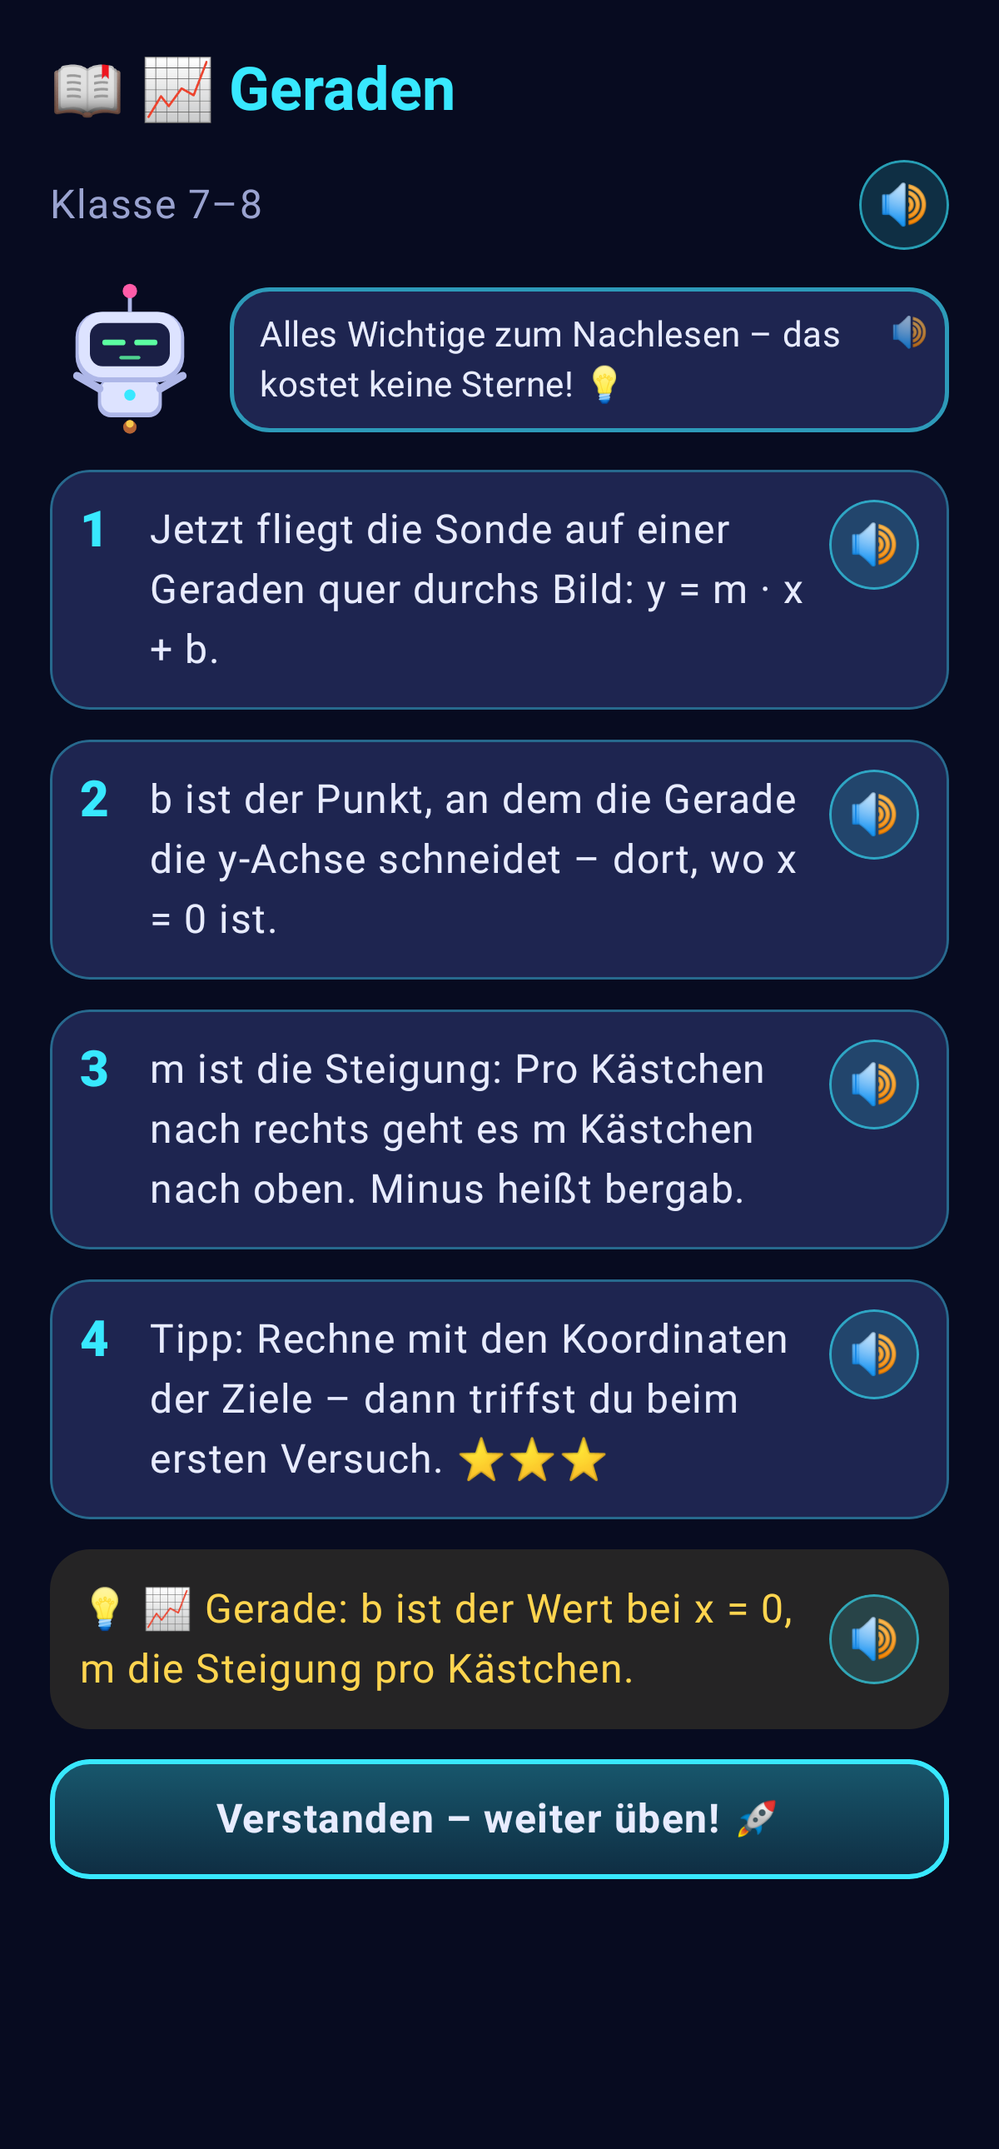
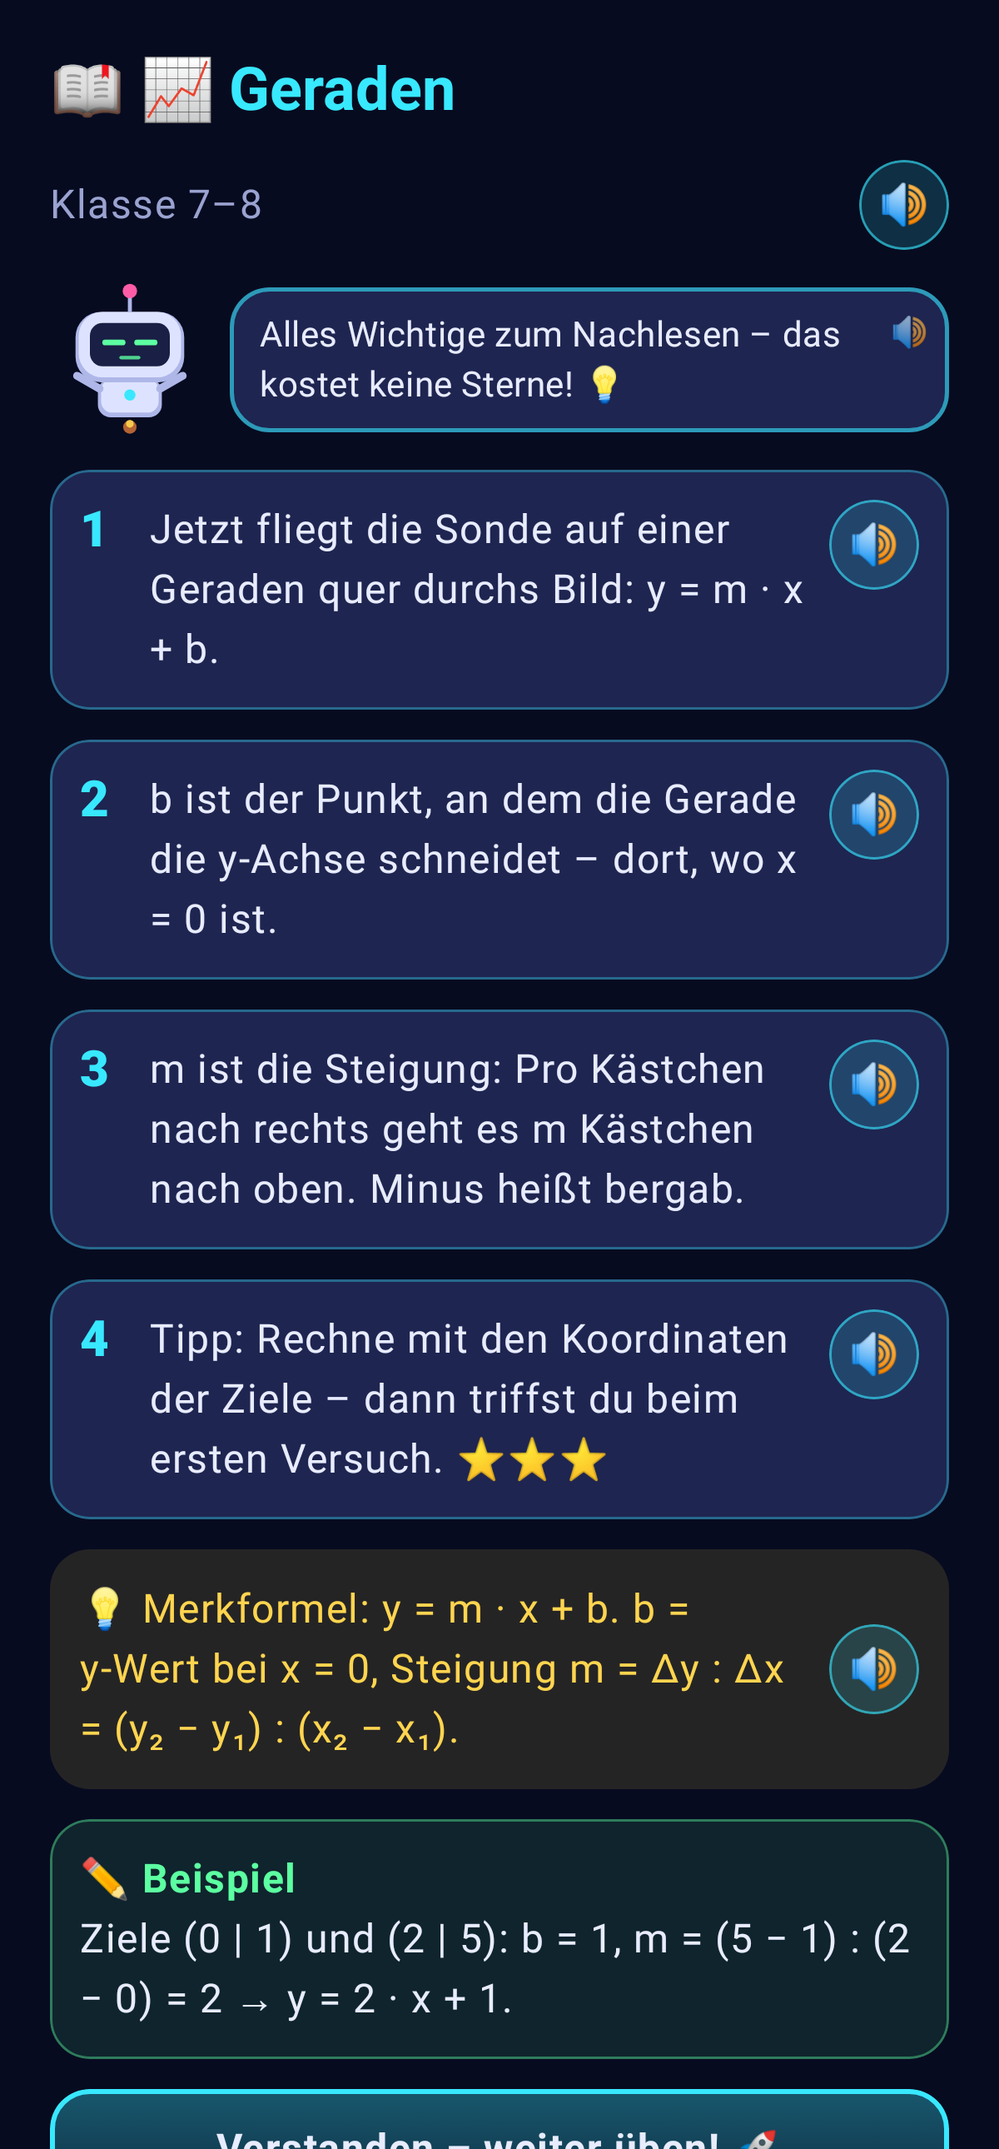
Kurvenflug 2.5.23: Theorie mit passender Merkformel und Rechenbeispiel je Kapitel, falsche Formeln korrigiert, Prüftest
Claude-Session: https://claude.ai/code/session_015vg1TniCB6sLGd2dNSJdge

Changed region(s): [[0.0308, 0.7132, 0.9558, 1.0]]

diff --git a/kurvenflug/core/model/src/commonMain/kotlin/de/kurvenflug/core/model/Theory.kt b/kurvenflug/core/model/src/commonMain/kotlin/de/kurvenflug/core/model/Theory.kt
@@ -3,16 +3,102 @@ package de.kurvenflug.core.model
 /**
  * „📖 Theorie“-Knopf in jeder Übung: die passende Erklärung zum Nachlesen, jederzeit und ohne Sterne-Abzug.
  * Kapitel-Level zeigen die Einführung ihres Kapitels; Missionen ohne eigenes Kapitel (Sturm, Duell, Andromeda …)
- * die Einführung des Kapitels mit derselben Bahnart. Dazu die Merkformel der Bahnart.
+ * die Einführung des Kapitels mit derselben Bahnart. Dazu die Merkformel (genau die, die man zum Lösen braucht)
+ * und ein durchgerechnetes Beispiel (Marcel 18.11.: „die Formel, die man braucht, erklären und zeigen“).
  */
-data class Theory(val emoji: String, val title: String, val grades: String, val points: List<String>, val formula: String?)
+data class Theory(val emoji: String, val title: String, val grades: String, val points: List<String>, val formula: String?, val example: String? = null)
 
 object Theories {
     fun of(level: Level, chapter: Chapter?): Theory? {
         val own = chapter?.takeIf { it.intro.isNotEmpty() && it.levels.any { l -> l.kind == level.kind } }
             ?: Levels.chapters.firstOrNull { it.number == level.chapter && it.intro.isNotEmpty() }
         val c = own ?: Levels.chapters.firstOrNull { c -> c.intro.isNotEmpty() && c.levels.any { it.kind == level.kind } } ?: return null
-        val formula = Templates.tip(level.kind).takeIf { it.isNotBlank() }?.let { "${Templates.label(level.kind)}: $it" }
-        return Theory(c.emoji, c.title, c.grades, c.intro, formula)
+        val formula = TheoryFormulas.formula(c.number, level.kind)
+            ?: Templates.tip(level.kind).takeIf { it.isNotBlank() }?.let { "${Templates.label(level.kind)}: $it" }
+        return Theory(c.emoji, c.title, c.grades, c.intro, formula, TheoryFormulas.example(c.number, level.kind))
     }
+}
+
+/**
+ * Merkformel und Rechenbeispiel je Kapitel (bei Kapiteln mit zwei Aufgabenarten je Bahnart).
+ * Geprüft am 18.11.: Jede Größe, die man einstellt, steht in der Formel; das Beispiel rechnet genau so, wie die Level es verlangen.
+ */
+object TheoryFormulas {
+    private class Entry(val formula: String, val example: String)
+    private fun e(f: String, x: String) = Entry(f, x)
+
+    private val byChapter: Map<Int, Map<Kind?, Entry>> = mapOf(
+        1 to mapOf(null to e("Punkt (x | y): erst x waagerecht (rechts +, links −), dann y senkrecht (oben +, unten −).",
+            "Ziel 3 Kästchen rechts und 2 unten → (3 | −2), also x = 3 und y = −2.")),
+        2 to mapOf(null to e("y = m · x + b. b = y-Wert bei x = 0, Steigung m = Δy : Δx = (y₂ − y₁) : (x₂ − x₁).",
+            "Ziele (0 | 1) und (2 | 5): b = 1, m = (5 − 1) : (2 − 0) = 2 → y = 2 · x + 1.")),
+        3 to mapOf(null to e("y = a · (x − d)² + e. Scheitel S(d | e); a > 0 Tal, a < 0 Hügel.",
+            "Scheitel (2 | −1), Ziel (3 | 1): 1 = a · (3 − 2)² − 1 → 1 = a − 1 → a = 2.")),
+        4 to mapOf(null to e("Wurfweite auf ebenem Boden: w = v² · sin(2α) : g (g: Erde 9,81, Mars 3,71, Mond 1,62 m/s²).",
+            "v = 10 m/s, α = 45°, Erde: w = 10² · sin(90°) : 9,81 = 100 : 9,81 ≈ 10,2 m.")),
+        5 to mapOf(
+            Kind.SINE to e("y = a · sin(b · x) + d. a = Ausschlag, eine Schwingung ist 2π : b lang, d = Mittellinie.",
+                "y = 2 · sin(x) + 1 schwingt zwischen 1 − 2 = −1 und 1 + 2 = 3; eine Schwingung ist 2π ≈ 6,28 lang."),
+            Kind.EXP to e("y = a · bˣ. a = Wert bei x = 0, b = Faktor pro Schritt (b > 1 wächst, b < 1 zerfällt).",
+                "a = 3, b = 2: bei x = 2 ist y = 3 · 2² = 3 · 4 = 12.")),
+        6 to mapOf(null to e("Gravitation: F = G · m · M : r². Doppelte Masse → doppelte Kraft, doppelter Abstand → ¼ der Kraft.",
+            "Fliegst du nur halb so weit entfernt vorbei, zieht der Planet 2² = 4-mal so stark – die Bahn knickt viel stärker.")),
+        7 to mapOf(null to e("Treffpunkt: beide Gleichungen gleichsetzen (y_A = y_B), nach x auflösen, x einsetzen → y.",
+            "A: y = x + 1, B: y = −x + 5 → x + 1 = −x + 5 → 2x = 4 → x = 2, y = 2 + 1 = 3 → Treffpunkt (2 | 3).")),
+        8 to mapOf(
+            Kind.PROP to e("Proportional: y = k · x mit k = y : x (Quotient bleibt gleich).", "Ziel (4 | 6): k = 6 : 4 = 1,5 → y = 1,5 · x."),
+            Kind.ANTI to e("Antiproportional: y = k : x mit k = x · y (Produkt bleibt gleich).", "Ziel (2 | 6): k = 2 · 6 = 12 → y = 12 : x, bei x = 4 also y = 3.")),
+        9 to mapOf(null to e("Abstand: r = √(Δx² + Δy²) (Satz des Pythagoras).", "3 rechts, 4 hoch: r = √(3² + 4²) = √(9 + 16) = √25 = 5.")),
+        10 to mapOf(null to e("y = log_b(x) + d. log_b(x) = n heißt bⁿ = x; bei x = 1 ist y = d.",
+            "Ziel (8 | 3), d = 0: log_b(8) = 3 → b³ = 8 → b = 2.")),
+        11 to mapOf(null to e("Reflexion: Einfallswinkel = Ausfallswinkel.",
+            "Trifft der Strahl unter 30° auf einen waagerechten Spiegel, prallt er unter 30° wieder ab – wie ein Ball an der Bande.")),
+        12 to mapOf(null to e("Energieerhaltung m · g · h = ½ · m · v²; Weite ab der Kante: s = 2 · √((h − h₀) · h₀).",
+            "Kante h₀ = 2, Ziel s = 8: 8 = 2 · √((h − 2) · 2) → 16 = (h − 2) · 2 → h − 2 = 8 → h = 10.")),
+        13 to mapOf(null to e("s = v · t + s₀. s₀ = Startpunkt, Geschwindigkeit v = Δs : Δt.",
+            "Start bei s₀ = 2 m, nach 4 s bei 10 m: v = (10 − 2) : 4 = 2 m/s.")),
+        14 to mapOf(
+            Kind.LASER to e("tan α = Gegenkathete : Ankathete (Höhe : Weite) → α = tan⁻¹(Höhe : Weite).",
+                "Station 4 weiter und 3 höher: tan α = 3 : 4 = 0,75 → α = tan⁻¹(0,75) ≈ 36,9°."),
+            Kind.RADIUS to e("sin α = Gegenkathete : Hypotenuse, cos α = Ankathete : Hypotenuse → r = GK : sin α = AK : cos α.",
+                "Station 3 hoch unter 30°: r = 3 : sin(30°) = 3 : 0,5 = 6.")),
+        15 to mapOf(null to e("Bruch = Zähler : Nenner. ½ = 0,5, ¼ = 0,25, ¾ = 0,75; minus heißt links.",
+            "−1¼: ein ganzes Kästchen und ein Viertel nach links → x = −1,25.")),
+        16 to mapOf(null to e("Winkelsumme im Dreieck: α + β + γ = 180°. Nebenwinkel: α + β = 180°. Rechter Winkel = 90°.",
+            "Dreieck mit 60° und 70°: γ = 180° − 60° − 70° = 50°. Nebenwinkel von 50°: 180° − 50° = 130°.")),
+        17 to mapOf(null to e("Brechungsgesetz: sin α₁ = n · sin α₂ (Winkel zum Lot gemessen; Glas n ≈ 1,5, Wasser n ≈ 1,33).",
+            "Innen im Glas 20° zum Lot: sin α₁ = 1,5 · sin(20°) ≈ 1,5 · 0,342 = 0,513 → α₁ ≈ 30,9° draußen.")),
+        18 to mapOf(null to e("pq-Formel: x = −p/2 ± √((p/2)² − q). Scheitel-x: d = (x₁ + x₂) : 2 = −p/2, e = q − d².",
+            "y = x² − 6x + 5: p = −6, q = 5 → x = 3 ± √(9 − 5) = 3 ± 2 → Nullstellen 1 und 5, Scheitel (3 | 5 − 9) = (3 | −4).")),
+        19 to mapOf(null to e("Tangentensteigung m = f'(x₀). Ableiten: xⁿ → n · xⁿ⁻¹, Zahlen fallen weg.",
+            "f(x) = x², x₀ = 3: f'(x) = 2x → m = f'(3) = 6.")),
+        20 to mapOf(null to e("Extremstelle: f'(x) = 0. f''(x) < 0 → Hochpunkt, f''(x) > 0 → Tiefpunkt.",
+            "f(x) = x² − 4x: f'(x) = 2x − 4 = 0 → x = 2; f''(x) = 2 > 0 → Tiefpunkt bei x = 2.")),
+        21 to mapOf(null to e("Fläche: ∫₀ᵇ f(x) dx = F(b) − F(0). Stammfunktion: xⁿ → xⁿ⁺¹ : (n + 1), k → k · x.",
+            "f(x) = 2x bis b = 3: F(x) = x² → F(3) − F(0) = 9 − 0 = 9.")),
+        22 to mapOf(null to e("X = P + t · v, also v = (Q − P) : t für jede Koordinate einzeln.",
+            "P(1 | 2), Q(7 | 5), t = 3: v₁ = (7 − 1) : 3 = 2, v₂ = (5 − 2) : 3 = 1 → v = (2 | 1).")),
+        23 to mapOf(null to e("y = a · bˣ mit b = 1 + p : 100 (Wachstum) bzw. b = 1 − p : 100 (Abnahme); a = Startwert.",
+            "100 € mit 5 % Zinsen: b = 1,05; nach 2 Jahren y = 100 · 1,05² = 110,25 €.")),
+        24 to mapOf(null to e("s = ½ · a · t² + v₀ · t. a = Beschleunigung (negativ = bremsen), v₀ = Anfangstempo.",
+            "a = 2 m/s², v₀ = 1 m/s, nach 3 s: s = ½ · 2 · 3² + 1 · 3 = 9 + 3 = 12 m.")),
+        25 to mapOf(null to e("y = a · xⁿ + d. n = Hochzahl, a streckt, d schiebt nach oben/unten.",
+            "y = 0,5 · x³ + 1 bei x = 2: 0,5 · 2³ + 1 = 0,5 · 8 + 1 = 5.")),
+        26 to mapOf(null to e("y = a · sin(b · (x − c)) + d. c = Verschiebung nach rechts, Wellenberg π : (2b) nach dem Nulldurchgang.",
+            "Aufsteigender Nulldurchgang bei x = 1 → c = 1; mit b = 1 liegt der Wellenberg bei 1 + π/2 ≈ 2,57.")),
+        27 to mapOf(null to e("Fallzeit t = √(2 · h : g), Weite x = v · t → v = x : t.",
+            "h = 19,62 m auf der Erde: t = √(2 · 19,62 : 9,81) = √4 = 2 s; Ziel 30 m weit → v = 30 : 2 = 15 m/s.")),
+        28 to mapOf(null to e("y = a · e^(k·x). a = Startwert; aus e^(k·x) = q folgt k = ln(q) : x.",
+            "Verdopplung nach x = 5: e^(5k) = 2 → k = ln(2) : 5 ≈ 0,693 : 5 ≈ 0,139.")),
+        29 to mapOf(null to e("Kästchen = echte Länge : Maßstab. Osten/Norden plus, Westen/Süden minus.",
+            "1 Kästchen = 50 km, Ziel 150 km östlich und 100 km südlich: x = 150 : 50 = 3, y = −(100 : 50) = −2.")),
+        30 to mapOf(null to e("P(X = k) = (n über k) · pᵏ · (1 − p)ⁿ⁻ᵏ; kumuliert P(X ≤ k) = Summe von P(X = 0) bis P(X = k).",
+            "n = 4, p = 0,5: P(X = 2) = 6 · 0,5² · 0,5² = 6 : 16 = 0,375 – also 37,5 %.")),
+    )
+
+    private fun entry(chapter: Int, kind: Kind) = byChapter[chapter]?.let { it[kind] ?: it[null] }
+    fun formula(chapter: Int, kind: Kind): String? = entry(chapter, kind)?.let { "Merkformel: ${it.formula}" }
+    fun example(chapter: Int, kind: Kind): String? = entry(chapter, kind)?.example
+    /** Für den Test: Kapitel mit Formel */
+    val chapters: Set<Int> get() = byChapter.keys
 }

diff --git a/kurvenflug/core/model/src/jvmTest/kotlin/de/kurvenflug/core/model/TheoryFormulaTest.kt b/kurvenflug/core/model/src/jvmTest/kotlin/de/kurvenflug/core/model/TheoryFormulaTest.kt
@@ -1,0 +1,49 @@
+package de.kurvenflug.core.model
+
+import org.junit.Assert.assertTrue
+import org.junit.Test
+
+/** Theorie-Prüfung (Marcel 18.11.): Jedes Level zeigt die Formel, die man braucht, mit Beispiel – und keine fremde. */
+class TheoryFormulaTest {
+    private val levels = Levels.all + Levels.chapters.mapNotNull { ChapterExtreme.forChapter(it.number) }
+
+    @Test fun everyLevelHasFormulaAndExample() {
+        levels.forEach { l ->
+            val t = Theories.of(l, Levels.chapters.firstOrNull { it.number == l.chapter })
+            assertTrue("${l.id}: keine Theorie", t != null)
+            assertTrue("${l.id}: keine Merkformel", !t!!.formula.isNullOrBlank())
+            assertTrue("${l.id}: kein Beispiel", !t.example.isNullOrBlank())
+        }
+        Levels.chapters.forEach { c -> assertTrue("Kapitel ${c.number} ohne eigene Merkformel", c.number in TheoryFormulas.chapters) }
+    }
+
+    @Test fun missionsOutsideChaptersToo() {
+        val missions = ReadTexts.fixedLevels() + (0..60).map { Daily.forDay(20_400L + it) } +
+            Gen.kinds.flatMap { k -> (0..Tier.MAX).map { t -> Gen.level(k, 977L + t, t) } }
+        val missing = missions.filter { l -> Theories.of(l, Levels.chapters.firstOrNull { it.number == l.chapter })?.example.isNullOrBlank() }
+        assertTrue("ohne Theorie/Beispiel: " + missing.map { it.id + " " + it.kind }.distinct().take(20), missing.isEmpty())
+    }
+
+    @Test fun everyAdjustableValueIsInTheFormula() {
+        // Reglernamen → wie sie in der Formel heißen
+        val names = mapOf("angle" to "α", "s0" to "s₀", "v0" to "v₀", "v1" to "v", "v2" to "v", "A" to "F(b)")
+        levels.filter { it.chapter in TheoryFormulas.chapters }.forEach { l ->
+            val f = Theories.of(l, Levels.chapters.first { it.number == l.chapter })!!.formula!!
+            l.params.forEach { p ->
+                val n = names[p.key] ?: p.key
+                assertTrue("${l.id}: Regler ${p.key} fehlt in „$f“", n in f || l.kind in setOf(Kind.POINT, Kind.RENDEZVOUS, Kind.ORBIT, Kind.LASER, Kind.PEAK))
+            }
+        }
+    }
+
+    @Test fun noForeignFormula() {
+        // Winkel, Lichtbrechung, Trigonometrie dürfen nicht das Reflexionsgesetz zeigen; waagerechter Wurf nicht die Schrägwurf-Weite
+        levels.filter { it.chapter in setOf(14, 16, 17) }.forEach { l ->
+            val f = Theories.of(l, Levels.chapters.first { it.number == l.chapter })!!.formula!!
+            assertTrue("${l.id}: Reflexionsgesetz statt passender Formel", "Einfallswinkel = Ausfallswinkel" !in f)
+        }
+        levels.filter { it.chapter == 27 }.forEach { l -> assertTrue("sin(2α)" !in Theories.of(l, Levels.chapters.first { it.number == 27 })!!.formula!!) }
+        levels.filter { it.chapter == 28 }.forEach { l -> assertTrue("e^(k·x)" in Theories.of(l, Levels.chapters.first { it.number == 28 })!!.formula!!) }
+        levels.filter { it.kind == Kind.EXP }.forEach { l -> assertTrue("bˣ" in Theories.of(l, Levels.chapters.firstOrNull { it.number == l.chapter })!!.formula!!) }
+    }
+}

diff --git a/kurvenflug/shared/src/commonMain/kotlin/de/kurvenflug/app/ui/flight/LevelScreen.kt b/kurvenflug/shared/src/commonMain/kotlin/de/kurvenflug/app/ui/flight/LevelScreen.kt
@@ -632,6 +632,14 @@ fun TheoryOverlay(t: de.kurvenflug.core.model.Theory, onClose: () -> Unit) {
                     de.kurvenflug.app.ui.fx.SpeakButton({ f }, Modifier.padding(start = 6.dp))
                 }
             }
+            // Durchgerechnetes Beispiel – genau so rechnen die Level
+            t.example?.let { x ->
+                Column(Modifier.fillMaxWidth().clip(RoundedCornerShape(16.dp)).background(Q.Green.copy(alpha = 0.10f))
+                    .border(1.dp, Q.Green.copy(alpha = 0.4f), RoundedCornerShape(16.dp)).padding(12.dp)) {
+                    Text("✏ Beispiel", color = Q.Green, fontWeight = FontWeight.Bold)
+                    Text(x, color = Q.Text)
+                }
+            }
             NeonButton(onClick = onClose, color = Q.Cyan, modifier = Modifier.fillMaxWidth()) {
                 Text("Verstanden – weiter üben! 🚀", color = Q.Text, fontWeight = FontWeight.Bold)
             }

diff --git a/kurvenflug/core/model/src/commonMain/kotlin/de/kurvenflug/core/model/ReadTexts.kt b/kurvenflug/core/model/src/commonMain/kotlin/de/kurvenflug/core/model/ReadTexts.kt
@@ -28,7 +28,7 @@ object ReadTexts {
     }
 
     /** Theorie am Stück */
-    fun theoryAll(t: Theory) = (listOf(t.title) + t.points + listOfNotNull(t.formula)).joinToString(" ") { it.trimEnd().let { p -> if (p.last() in ".!?:") p else "$p." } }
+    fun theoryAll(t: Theory) = (listOf(t.title) + t.points + listOfNotNull(t.formula, t.example?.let { "Beispiel: $it" })).joinToString(" ") { it.trimEnd().let { p -> if (p.last() in ".!?:") p else "$p." } }
 
     /** Level mit festem Inhalt (keine Zufalls-Level wie Tagesmission oder Generator) */
     fun fixedLevels(): List<Level> = Levels.all + Levels.chapters.mapNotNull { ChapterExtreme.forChapter(it.number) } +

diff --git a/kurvenflug/MELDUNG_AN_LEITSTAND.md b/kurvenflug/MELDUNG_AN_LEITSTAND.md
@@ -1,5 +1,49 @@
 # Meldungen an den Leitstand – Kurvenflug WebApp
 
+## ✅ 2.5.23 – Theorie geprüft: Merkformel + Beispiel für jedes Level (Marcel 18.11.)
+**Prüfung:** alle 30 Kapitel (175 Level + Extrem-Stufen), dazu Bosse, Andromeda, Rettungen, Jahreszeiten-, Tages- und Zufallsmissionen
+(nutzen die Theorie des Kapitels mit derselben Bahnart). Je Level: Steht die nötige Formel mit allen einstellbaren Größen da?
+Gibt es ein durchgerechnetes Beispiel? Passt der Inhalt zur Überschrift? Ergebnis (Level je Kapitel in Klammern):
+| Kap. | Thema (Level) | Formel in Theorie vorher | jetzt (Merkformel + Beispiel) |
+|---|---|---|---|
+| 1 | Koordinaten (7) | ja (Regel), kein Beispiel | (x \| y) + Beispiel (3 \| −2) |
+| 2 | Geraden (8) | y = mx + b ja, **m = Δy:Δx fehlte** | + Steigung aus zwei Punkten + Beispiel |
+| 3 | Parabeln (6) | ja | + Beispiel a aus Scheitel und Ziel |
+| 4 | Wurf & Schwerkraft (6) | ja | + Beispiel w = v²·sin2α:g |
+| 5 | Wellen & Wachstum (7) | ja (Sinus, a·bˣ) | je Bahnart eigene Merkformel + Beispiel |
+| 6 | Schwerkraft-Schleuder (5) | nur „nah vorbei biegt stark“ | F = G·m·M:r² + Beispiel |
+| 7 | Rendezvous (7) | „gleichsetzen“ | Verfahren + durchgerechnetes Gleichungssystem |
+| 8 | Zuordnungen (6) | ja | y = k·x / y = k:x je Bahnart + Beispiel |
+| 9 | Pythagoras (5) | ja | r = √(Δx²+Δy²) + Beispiel |
+| 10 | Logarithmus (5) | ja, d nicht in Merkformel | y = log_b(x) + d + Beispiel |
+| 11 | Laser-Optik (5) | ja | + Beispiel |
+| 12 | Energie (5) | Merkformel ohne Weiten-Formel | + s = 2·√((h−h₀)·h₀) + Beispiel |
+| 13 | Weg & Zeit (4) | ja | + v = Δs:Δt + Beispiel |
+| 14 | Trigonometrie (7) | **nein – Spiegelgesetz/Pythagoras** | tan (Laser) bzw. sin/cos (Funk) je Bahnart + Beispiele |
+| 15 | Brüche & Kommazahlen (8) | **nein – Koordinaten-Regel** | Bruch = Zähler:Nenner + Beispiel |
+| 16 | Winkel (6) | **nein – Spiegelgesetz** | Winkelsumme 180°, Nebenwinkel + Beispiel |
+| 17 | Lichtbrechung (5) | **nein – Spiegelgesetz** | sin α₁ = n·sin α₂ + Beispiel |
+| 18 | Nullstellen (6) | allgemeine Parabel-Regel | pq-Formel, d = Mitte der Nullstellen + Beispiel |
+| 19 | Ableitung & Tangente (6) | ja | + Ableitungsregel + Beispiel |
+| 20 | Extrempunkte (6) | ja | + f''-Test + Beispiel |
+| 21 | Integral (6) | ja | + Stammfunktions-Regel + Beispiel |
+| 22 | Vektoren (5) | ja | + Beispiel |
+| 23 | Prozent & Zinseszins (6) | ja (allg. Exponentiell) | b = 1 ± p:100 + Zinseszins-Beispiel |
+| 24 | Beschleunigte Bewegung (6) | ja | + Beispiel |
+| 25 | Potenzfunktionen (5) | **d fehlte in Merkformel** | y = a·xⁿ + d + Beispiel |
+| 26 | Verschobene Wellen (5) | **c fehlte in Merkformel** | y = a·sin(b·(x−c)) + d + Beispiel |
+| 27 | Waagerechter Wurf (5) | **nein – Schrägwurf-Formel** | t = √(2h:g), v = x:t + Beispiel |
+| 28 | e-Funktion (6) | ja (exponentiell, e^(k·x)) | + k = ln(q):x + Beispiel |
+| 29 | Maßstab & Karten (5) | **nein – Koordinaten-Regel** | Kästchen = Länge:Maßstab + Beispiel |
+| 30 | Binomialverteilung (6) | ja | + kumuliert + Beispiel |
+
+**Überschriften geprüft:** e-Funktion/Exponentiell sind wirklich exponentiell (a·bˣ bzw. a·e^(k·x)); Potenzfunktionen ganzrational y = a·xⁿ + d;
+nichts vertauscht. Die Kapitel-Erklärungen (1–4 Punkte) bleiben, darunter jetzt **💡 Merkformel** und **✏ Beispiel**.
+**Absicherung (neuer Test `TheoryFormulaTest`):** jedes Kapitel-Level und jede Mission hat Theorie + Merkformel + Beispiel; jeder Regler
+(m, b, a, d, e, c, k, n, p, r, h, v, α, s₀, v₀ …) kommt in der Merkformel vor; Kap. 14/16/17 nie das Spiegelgesetz, Kap. 27 nie die
+Schrägwurf-Formel, Kap. 28 immer e^(k·x), jede Exponential-Aufgabe a·bˣ.
+- Bildschirmfoto 98_theorie angesehen. versionCode 70 / 2.5.23, Prüfkette grün, keine neuen Dateiendungen.
+
 ## ✅ 2.5.22 – Vorgaben aus dem Ratgeber übernommen (eure Nachricht 18.11. 14:37)
 1. **Zählung:** Sendung jetzt `{"app":"kurvenflug","v":"2.5.22","e":{…}}` (ohne `f`), je Ereignis höchstens 50. Gezählt werden:
    `start`, `level_start`, `level_geschafft`, `theorie`, `elternbereich` (Eltern-Tor bestanden), `pro_ansehen` (Pro-Seite geöffnet),

diff --git a/kurvenflug/CHANGELOG.md b/kurvenflug/CHANGELOG.md
@@ -3,6 +3,12 @@
 Kurz und verständlich für Schüler und Eltern. Der Abschnitt der aktuellen Version erscheint automatisch
 im GitHub-Release und in der App unter „App-Update“.
 
+## 2.5.23 – Theorie mit Merkformel und Rechenbeispiel
+- Jede Theorie zeigt jetzt die Formel, die man für die Aufgabe wirklich braucht, mit allen Größen – und darunter ein
+  durchgerechnetes Beispiel („✏ Beispiel“), genau so, wie man es im Level rechnet.
+- Korrigiert: Bei Winkel, Lichtbrechung und Trigonometrie stand fälschlich das Spiegelgesetz, beim waagerechten Wurf die
+  Formel für den schrägen Wurf, bei Brüchen und Maßstab die Koordinaten-Regel. Jetzt steht überall die passende Formel.
+
 ## 2.5.22 – Elternbereich nach Vorgabe
 - Vor einer Klassenarbeit zeigt der Elternbereich neben der Probestunde auch den Easy-Learning-Crashkurs
   (kostenlos für Familien mit Stundenpaket). Die Probestunde öffnet passend vorausgefüllt mit Thema und Klasse.
